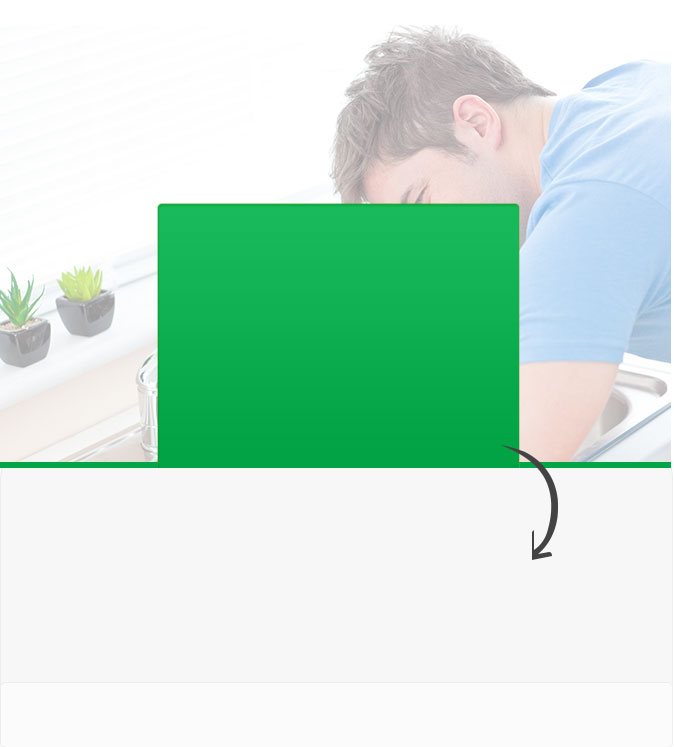
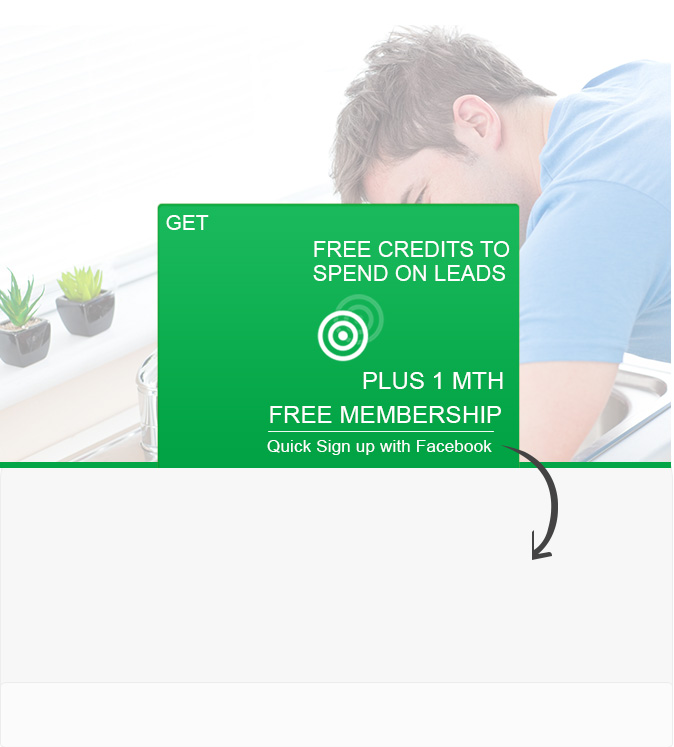
fix

Changed region(s): [[0.405, 0.3079, 0.7478, 0.6158], [0.2493, 0.2771, 0.3116, 0.3079]]

diff --git a/css/signup_media_queries.css b/css/signup_media_queries.css
@@ -6,11 +6,11 @@
 	.step1 .headerContent h2 {
 		margin: 10px auto 10px auto;
 	}
-	.step1 .greenContent {
+	/*step1 .greenContent {
 		top: 74px;
 		width: 132px;
 		left: 56px;
-	}
+	}*/
 	.step1 .greenContent .text1 {
 		font-size: 10px;
 		margin: 5px 0 0 5px;
@@ -18,7 +18,7 @@
 	.step1 .greenContent .line2 .price {
 		margin-left: 5px;
 		margin-right: 5px;
-		font-size: 32px;
+		font-size: 52px;
 	}
 	.step1 .greenContent .line2 .credits {
 		line-height: 9px;
@@ -544,8 +544,18 @@
 }
 	/*** END STEP 7 ***/
 	
-	
-	
+}
+
+@media screen and (max-width: 320px) {
+	.step13 .right .formGroup > select{
+		font-size: 13px;
+	}
+}
+
+@media screen and (max-width: 480px) {
+	.step1 .greenContent .line2 .price {
+		font-size: 28px;
+	}
 }
 
 @media screen and (max-width: 360px) {

diff --git a/signup/step-1.html b/signup/step-1.html
@@ -16,15 +16,9 @@
 			<h4>Sign Up Easily Using Facebook To Get Verified and Start Winning Jobs!</h4>
 		</div>
 		<div class="greenContent">
-			<p class="text1">GET</p>
 			<div class="line2">
 				<p class="price bold">&pound;20</p>
-				<p class="credits">FREE CREDITS TO SPEND ON LEADS</p>
-				<div class="imageContainer"><img src="../images/signup/target2.png" class="img-responsive"></div>
 			</div>
-			<p class="text3">PLUS 1 MTH</p>
-			<p class="text4">FREE MEMBERSHIP</p>
-			<p class="text5">Quick Sign up with Facebook</p>
 		</div>
 		<div class="fbContent">
 			<a href="step-3.html" class="facebookButton"><img src="../images/signup/facebook-boton.png" class="img-responsive"></a>

diff --git a/css/signup.css b/css/signup.css
@@ -139,9 +139,9 @@ html.signup2 .input {
 .step1 .greenContent {	
 	position: absolute;
 	color: #FFFFFF;
-	top: 187px;
+	top: 31%;
 	width: 318px;
-	left: 142px;
+	left: 23%;
 }
 
 .step1 .greenContent .text1 {	
